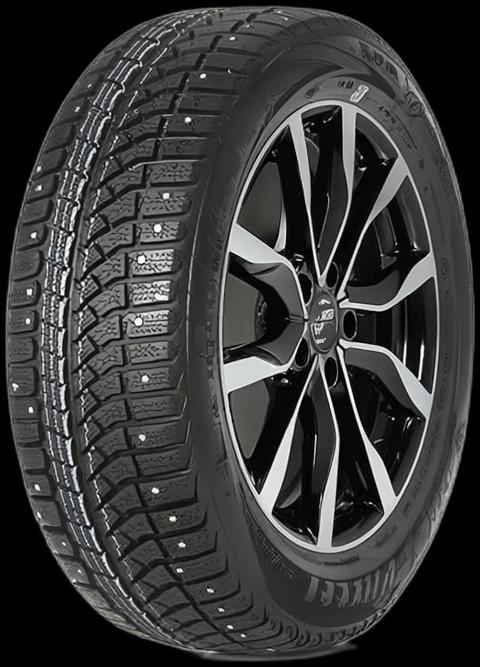
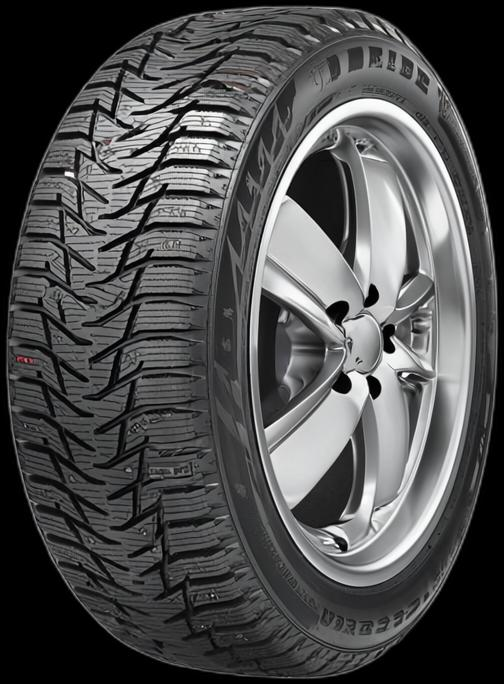
Добавлены изменения и исправления в проекте

diff --git a/py/ai_image_processor.py b/py/ai_image_processor.py
@@ -93,10 +93,10 @@ COEFF = {
     'season_x': 0.0639,
     'season_y': 0.7966,
     'season_y2': 0.8329,
-    'tire_w': 0.5177,
-    'tire_h': 0.5835,
-    'tire_x': 0.3854,
-    'tire_y': 0.3123,
+    'tire_w': 0.5677,
+    'tire_h': 0.6392,
+    'tire_x': 0.3725,
+    'tire_y': 0.3087,
 }
 
 # --- Альтернативный режим восстановления шины под логотипом ---
@@ -535,7 +535,7 @@ def remove_logo_from_object(img, mask_path=None, logo_removal_method='runwayml',
     if img.mode != 'RGBA':
         img = img.convert('RGBA')
     if logo_removal_method == 'runwayml':
-        prompt = params.get('runwayml_prompt', 'Remove any object overlapping the main subject (if present). After removal, realistically restore the main image. Also remove any external objects near the tire (such as texts, shapes, shadows, or elements not related to the tire drawing). The main subject is a car tire on a wheel, standing vertically and slightly rotated along the Y axis. If the source image contains two tires, remove the right one. If the tire is partially drawn (half, third, etc.), complete it so that the tire is whole. Do not change the tread pattern, texture, or color. If the tire is too rotated along the Y axis, rotate it counterclockwise to a more frontal view. Output: a single car tire on a wheel, standing vertically and slightly rotated along the Y axis, aspect ratio 321:482.') if params else 'Remove any object overlapping the main subject (if present). After removal, realistically restore the main image. Also remove any external objects near the tire (such as texts, shapes, shadows, or elements not related to the tire drawing). The main subject is a car tire on a wheel, standing vertically and slightly rotated along the Y axis. If the source image contains two tires, remove the right one. If the tire is partially drawn (half, third, etc.), complete it so that the tire is whole. Do not change the tread pattern, texture, or color. If the tire is too rotated along the Y axis, rotate it counterclockwise to a more frontal view. Output: a single car tire on a wheel, standing vertically and slightly rotated along the Y axis, aspect ratio 321:482.'
+        prompt = params.get('runwayml_prompt', 'Remove any object overlapping the main subject (if present), including logos and watermarks. After removal, realistically restore the main image. The main subject is a car tire on a wheel, standing vertically. Do not change, alter, distort, or remove any markings, symbols, texts, numbers, or labels present on the tire sidewalls, the tire itself, or the wheel. Improve the image quality. Output: a single car tire on a wheel, standing vertically.') if params else 'Remove any object overlapping the main subject (if present), including logos and watermarks. After removal, realistically restore the main image. The main subject is a car tire on a wheel, standing vertically. Do not change, alter, distort, or remove any markings, symbols, texts, numbers, or labels present on the tire sidewalls, the tire itself, or the wheel. Improve the image quality. Output: a single car tire on a wheel, standing vertically.'
         api_key = params.get('runwayml_api_key') if params else None
         logger.info(f"Удаление логотипа методом: runwayml, prompt={prompt}")
         logger.info(f"API-ключ из params: {'передан' if api_key else 'НЕ передан'}")
@@ -672,6 +672,7 @@ def process_image(task):
     """
     Основная функция обработки задачи: валидирует, проверяет файлы, компилирует изображение, логирует этапы.
     Новый порядок: 1) удаление логотипа, 2) удаление фона (rembg), 3) crop, 4) композит.
+    Внедрён суперсэмплинг и постобработка для повышения качества итогового изображения.
     """
     try:
         params = task.get('params', {})
@@ -722,11 +723,19 @@ def process_image(task):
         RIM = pd.get('diameter', '')
         LOAD_IDX = pd.get('load_index', '')
         SPEED_IDX = pd.get('speed_index', '')
-        SEASON = pd.get('season', '')
-        # 1. Загружаем и подгоняем фон по размеру
-        background = Image.open(background_path).convert('RGBA').resize((width, height), Image.LANCZOS)
+
+        # === SUPER SAMPLING/POSTPROCESSING ===
+        SUPER_SAMPLING_FACTOR = 3  # Можно увеличить до 3 для очень высоких требований
+        width_ss = width * SUPER_SAMPLING_FACTOR
+        height_ss = height * SUPER_SAMPLING_FACTOR
+        # === SUPER SAMPLING/POSTPROCESSING ===
+
+        # 1. Загружаем и подгоняем фон по размеру (Суперсэмплинг)
+        # background = Image.open(background_path).convert('RGBA').resize((width, height), Image.LANCZOS)
+        background = Image.open(background_path).convert('RGBA').resize((width_ss, height_ss), Image.LANCZOS)  # === SUPER SAMPLING/POSTPROCESSING ===
         img = background.copy()
         draw = ImageDraw.Draw(img)
+
         # 2. Открываем оригинал
         with Image.open(orig_path) as orig_img:
             orig_img = orig_img.convert('RGBA')
@@ -763,46 +772,70 @@ def process_image(task):
                 if debug_path.lower().endswith(('.jpg', '.jpeg')) and tire_img_crop.mode == 'RGBA':
                     img_to_save = tire_img_crop.convert('RGB')
                 img_to_save.save(debug_path)
-        # 6. Отрисовываем все элементы
-        draw_tire(img, tire_img_crop, width, height)
-        draw_brand(draw, BRAND, width, height, FONT_PATH_BOLD, WHITE, debug_logging)
-        draw_model(draw, MODEL, width, height, FONT_PATH_SEMIBOLD, WHITE, debug_logging)
-        draw_specs(draw, f"{WIDTH_PROFILE}/{HEIGHT_PROFILE}", RIM, width, height, FONT_PATH_SEMIBOLD, FONT_PATH_BOLD, BLACK, CYAN, LIGHT_BG, WHITE, debug_logging)
-        draw_index_box(draw, LOAD_IDX, 'индекс', 'нагрузки', width, height, LOAD_IDX_BG, int(width*COEFF['season_x']), int(height*0.4541), FONT_PATH_BOLD, FONT_PATH_REGULAR, WHITE, debug_logging)
-        draw_index_box(draw, SPEED_IDX, 'индекс', 'скорости', width, height, SPEED_IDX_BG, int(width*COEFF['season_x']), int(height*0.628), FONT_PATH_BOLD, FONT_PATH_REGULAR, WHITE, debug_logging)
-        #draw_season(draw, SEASON, icon_img, width, height, FONT_PATH_BOLD, WHITE, img=img, debug_logging=debug_logging)
+
+        # 6. Отрисовываем все элементы (Суперсэмплинг: подаем увеличенные размеры и шрифты)
+        # draw_tire(img, tire_img_crop, width, height)
+        draw_tire(img, tire_img_crop, width_ss, height_ss)  # === SUPER SAMPLING/POSTPROCESSING ===
+
+        # draw_brand(draw, BRAND, width, height, FONT_PATH_BOLD, WHITE, debug_logging)
+        draw_brand(draw, BRAND, width_ss, height_ss, FONT_PATH_BOLD, WHITE, debug_logging)  # === SUPER SAMPLING/POSTPROCESSING ===
+
+        # draw_model(draw, MODEL, width, height, FONT_PATH_SEMIBOLD, WHITE, debug_logging)
+        draw_model(draw, MODEL, width_ss, height_ss, FONT_PATH_SEMIBOLD, WHITE, debug_logging)  # === SUPER SAMPLING/POSTPROCESSING ===
+
+        # draw_specs(draw, f"{WIDTH_PROFILE}/{HEIGHT_PROFILE}", RIM, width, height, FONT_PATH_SEMIBOLD, FONT_PATH_BOLD, BLACK, CYAN, LIGHT_BG, WHITE, debug_logging)
+        draw_specs(draw, f"{WIDTH_PROFILE}/{HEIGHT_PROFILE}", RIM, width_ss, height_ss, FONT_PATH_SEMIBOLD, FONT_PATH_BOLD, BLACK, CYAN, LIGHT_BG, WHITE, debug_logging)  # === SUPER SAMPLING/POSTPROCESSING ===
+
+        # draw_index_box(draw, LOAD_IDX, 'индекс', 'нагрузки', width, height, LOAD_IDX_BG, int(width*COEFF['season_x']), int(height*0.4521), FONT_PATH_BOLD, FONT_PATH_REGULAR, WHITE, debug_logging)
+        draw_index_box(draw, LOAD_IDX, 'индекс', 'нагрузки', width_ss, height_ss, LOAD_IDX_BG, int(width_ss*COEFF['season_x']), int(height_ss*0.4521), FONT_PATH_BOLD, FONT_PATH_REGULAR, WHITE, debug_logging)  # === SUPER SAMPLING/POSTPROCESSING ===
+
+        # draw_index_box(draw, SPEED_IDX, 'индекс', 'скорости', width, height, SPEED_IDX_BG, int(width*COEFF['season_x']), int(height*0.628), FONT_PATH_BOLD, FONT_PATH_REGULAR, WHITE, debug_logging)
+        draw_index_box(draw, SPEED_IDX, 'индекс', 'скорости', width_ss, height_ss, SPEED_IDX_BG, int(width_ss*COEFF['season_x']), int(height_ss*0.628), FONT_PATH_BOLD, FONT_PATH_REGULAR, WHITE, debug_logging)  # === SUPER SAMPLING/POSTPROCESSING ===
+
+        # --- SUPER SAMPLING: Уменьшаем изображение до целевого размера ---
+        # Сначала применим постобработку для повышения резкости и коррекции цвета (до ресайза)
+        from PIL import ImageEnhance, ImageFilter  # === SUPER SAMPLING/POSTPROCESSING ===
+
+        # Постобработка: Повышение резкости
+        enhancer_sharpness = ImageEnhance.Sharpness(img)
+        img = enhancer_sharpness.enhance(2)  # 1.0 - без изменений, >1 - сильнее
+
+        # Постобработка: Коррекция цвета (насыщенность)
+        enhancer_color = ImageEnhance.Color(img)
+        img = enhancer_color.enhance(1.3)  # 1.0 - без изменений, >1 - сильнее
+
+        # Можно добавить лёгкую фильтрацию для очистки артефактов
+        img = img.filter(ImageFilter.SMOOTH_MORE)  # по желанию
+
+        img = img.resize((width, height), Image.LANCZOS)  # === SUPER SAMPLING/POSTPROCESSING ===
+
         # --- Сохранение результата ---
-        # Обрабатываем output_filename: может содержать путь или только имя файла
         output_filename = task['output_filename']
         if '/' in output_filename or '\\' in output_filename:
-            # Если указан путь, берем только имя файла
             final_output_path = PROCESSED_DIR / Path(output_filename).name
         else:
-            # Если указано только имя файла
             final_output_path = PROCESSED_DIR / output_filename
-        
-        # Диагностика перед сохранением
+
         logger.info(f'[SAVE] Подготовка к сохранению: {final_output_path}')
         logger.info(f'[SAVE] Тип img: {type(img)}')
         logger.info(f'[SAVE] Размер img: {img.size if img else "None"}')
         logger.info(f'[SAVE] Режим img: {img.mode if img else "None"}')
-        
+
         if img is None:
             logger.error('[SAVE] Ошибка: img равен None!')
             return None
-        
+
         img_to_save = img
         if str(final_output_path).lower().endswith(('.jpg', '.jpeg')) and img.mode == 'RGBA':
             img_to_save = img.convert('RGB')
             logger.info('[SAVE] Конвертирован в RGB для JPG')
-        
-        # Проверяем, что папка существует
+
         final_output_path.parent.mkdir(parents=True, exist_ok=True)
-        
-        img_to_save.save(final_output_path)
+
+        img_to_save.save(final_output_path, quality=100, subsampling=0)
         logger.info(f'[SAVE] Файл сохранен: {final_output_path}')
         logger.info(f'[SAVE] Размер файла: {final_output_path.stat().st_size if final_output_path.exists() else "файл не найден"}')
-        
+
         logger.info(f'Результат задачи {task["task_id"]} сохранён: {final_output_path}')
         return str(final_output_path.relative_to(PROCESSED_DIR.parent))
     except Exception as e:

diff --git a/py/test_integration.py b/py/test_integration.py
@@ -41,11 +41,11 @@ TEST_TASK_ID = 'test_integration_001'
 TEST_TASK = {
     "task_id": TEST_TASK_ID,
     "product_data": {
-        "brand": "TestBrand",
-        "model": "TestModel",
-        "width": "205",
-        "height": "55",
-        "diameter": "R16"
+        "brand": "Sailun",
+        "model": "Ice Blazer WST3",
+        "width": "225",
+        "height": "65",
+        "diameter": "R17"
     },
     "original_image": "originals/test_image.png",
     "template": "templates/test_template.png",
@@ -105,19 +105,24 @@ def run_logo_removal_test(method):
         else:
             print('[TEST][ERROR] runwayml_api_key будет None в задаче!')
     
+    # Определяем расширение файла оригинала
+    original_image_path = next((ORIGINALS_DIR / f'test_image{ext}' for ext in ['.png', '.jpg', '.jpeg'] if (ORIGINALS_DIR / f'test_image{ext}').exists()), None)
+    if not original_image_path:
+        raise FileNotFoundError('Не найден файл test_image с расширением .png/.jpg/.jpeg в originals')
+
     test_task = {
         "task_id": f"{TEST_TASK_ID}_{method}",
         "type": "tyre",
-        "original_image": f"originals/test_image.jpg",
+        "original_image": str(original_image_path.relative_to(PROJECT_ROOT)),
         "template": f"templates/test_template.jpg",
         "icon": f"logos/test_icon.png",
         "product_data": {
-            "brand": "TestBrand",
-            "model": "TestModel",
-            "width": "205",
-            "height": "55",
-            "diameter": "R16",
-            "load_index": "94",
+            "brand": "Sailun",
+            "model": "Ice Blazer WST3",
+            "width": "225",
+            "height": "65",
+            "diameter": "R17",
+            "load_index": "102",
             "speed_index": "T",
             "season": "зима",
             "studded": True
@@ -181,12 +186,12 @@ def test_season_icon():
         "template": "templates/test_template.jpg",
         "icon": "logos/test_icon.png",
         "product_data": {
-            "brand": "TestBrand",
-            "model": "TestModel",
-            "width": "205",
-            "height": "55",
-            "diameter": "R16",
-            "load_index": "94",
+            "brand": "Sailun",
+            "model": "Ice Blazer WST3",
+            "width": "225",
+            "height": "65",
+            "diameter": "R17",
+            "load_index": "102",
             "speed_index": "T",
             "season": "зимняя"
         },
